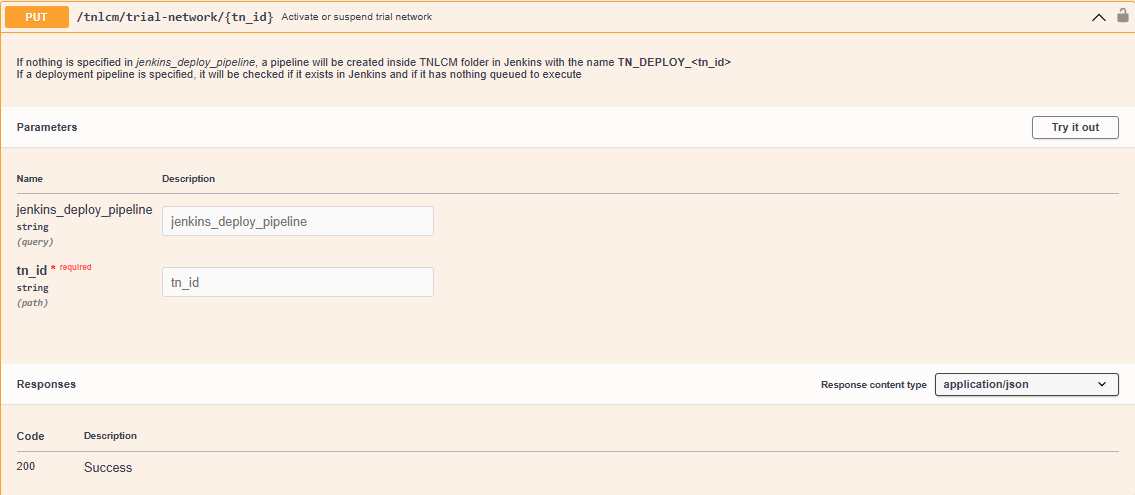
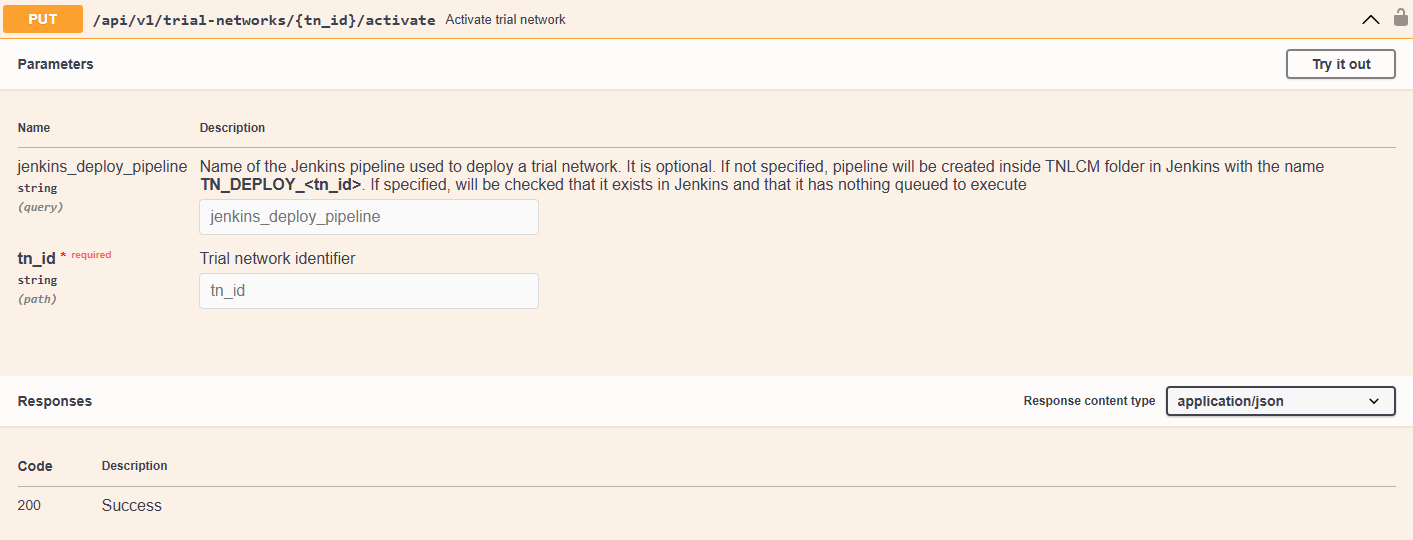
fix: state machine (#11)
* fix: state machine

* fix: api endpoints

* change: state machine documentation

* fix: link

* fix: image

* change: state machine

* change: update lucide library to latest version

* change: update bun version

* add: marketplace icon to redirect to marketplace

* fix: reference

* change: state machine

* change: update images

* add: resource manager

* fix: state machine

* fix: doc

* change: update dependencies to latest version

diff --git a/docusaurus.config.js b/docusaurus.config.js
@@ -121,6 +121,21 @@ const config = {
             className: 'header-github-link',
             'aria-label': 'GitHub repository'
           },
+          {
+            href: 'https://marketplace.mobilesandbox.cloud:9443/appliance',
+            position: 'right',
+            className: 'header-marketplace-link',
+            'aria-label': 'Marketplace',
+            html: `
+              <div style="display: flex; align-items: center; justify-content: center; height: 100%;">
+                <svg class="marketplace-icon" xmlns="http://www.w3.org/2000/svg" width="24" height="24" viewBox="0 0 24 24" fill="none" stroke="currentColor" stroke-width="2" stroke-linecap="round" stroke-linejoin="round">
+                  <circle cx="8" cy="21" r="1"/>
+                  <circle cx="19" cy="21" r="1"/>
+                  <path d="M2.05 2.05h2l2.66 12.42a2 2 0 0 0 2 1.58h9.78a2 2 0 0 0 1.95-1.57l1.65-7.43H5.12"/>
+                </svg>
+              </div>
+            `,
+          },
         ],
         hideOnScroll: true,
       },
@@ -187,7 +202,6 @@ const config = {
         backgroundColor: '#fffae6',
         textColor: '#091E42',
         isCloseable: true,
-
       },
     }),
 };

diff --git a/src/css/custom.css b/src/css/custom.css
@@ -43,3 +43,7 @@
 .header-github-link:hover:before {
   background-color: var(--ifm-navbar-link-hover-color)
 }
+
+.marketplace-icon {
+  stroke: var(--ifm-font-color-base);
+}

diff --git a/docs/tnlcm/workflow.md b/docs/tnlcm/workflow.md
@@ -15,24 +15,35 @@ TNLCM is a **state machine** that allows the automation of component deployment.
 
 ### States
 
-- **Validated**: trial network descriptor created is checked to see if it can be deployed. 6G-Library is used to validate it
-- **Activated**: trial network has been deployed in OpenNebula
-- **Suspended**: trial network has been suspended. It remains deployed, but turned off
-- **Failed**: there was an error during the trial network deployment
-- **Destroyed**: trial network deployment in OpenNebula is removed, but its content is kept in the database and locally
-- **Purge**: the trial network and the callbacks are removed from the database as well as its local content
+- **activated**: the trial network is deployed in OpenNebula and ready to use.
+- **created**: the trial network descriptor is created but not yet validated.
+- **destroyed**: the trial network deployment is removed from OpenNebula and ready for deploy again.
+- **failed-activation**: the trial network deployment failed. It is waiting for the user to try again.
+- **failed-destruction**: the trial network deployment removal failed. It is waiting for the user to try again.
+- **purged**: all the information about the trial network is removed from the database.
+- **validated**: the trial network descriptor is created and validated. It is ready to be deployed in OpenNebula.
+<!-- - **failed-suspension**: the trial network suspension failed. It is waiting for the user to try again. -->
+<!-- - **suspended**: the trial network is not in use but it is still deployed in OpenNebula. -->
 
 ### Transitions
 
-- Initial state &rarr; Validated: trial network descriptor validated and ready for deploy
-- Validated &rarr; Activated: trial network deployed and ready for use
-- Validated &rarr; Failed: trial network deployment failed
-- Validated &rarr; Purge: trial network invalid
-- Failed &rarr; Failed: again, trial network deployment failed
-- Activated &rarr; Destroyed: trial network destroyed and ready for deploy again
-- Activated &rarr; Suspended: TODO
-- Suspended &rarr; Activated: TODO
-- Destroyed &rarr; Activated: trial network deployed and ready for use 
-- Destroyed &rarr; Purge: trial network removed
+- **initial-state** &rarr; **created**: create a trial network descriptor that not validated yet. It allows save the descriptor for further editing at a later time.
+- **initial-state** &rarr; **validated**: create and validate a trial network descriptor in the same step. It check if the descriptor can be deployed.
+- **created** &rarr; **created**: edit the trial network descriptor.
+- **created** &rarr; **validated**: apply validation to the trial network descriptor.
+- **created** &rarr; **purged**: remove all the information about the trial network in database.
+- **validated** &rarr; **purged**: remove all the information about the trial network in database.
+- **validated** &rarr; **activated**: activate the trial network. It deploys the trial network in OpenNebula.
+- **validated** &rarr; **failed-activation**: trial network deployment failed. It is waiting for the user to try again.
+- **failed-activation** &rarr; **failed-activation**: retry the trial network deployment and it fails again.
+- **failed-activation** &rarr; **activated**: retry the trial network deployment and it is successful.
+- **failed-activation** &rarr; **destroyed**: remove the trial network deployment from OpenNebula and ready for deploy again.
+- **activated** &rarr; **destroyed**: remove the trial network deployment from OpenNebula and ready for deploy again.
+- **activated** &rarr; **failed-destroyed**: trial network deployment removal failed. It is waiting for the user to try again.
+- **destroyed** &rarr; **purged**: remove all the information about the trial network in database.
+- **destroyed** &rarr; **failed-activation**: retry the trial network deployment and it fails.
+- **destroyed** &rarr; **activated**: retry the trial network deployment and it is successful.
+- **failed-destruction** &rarr; **destroyed**: retry the trial network deployment removal and it is successful.
+- **failed-destruction** &rarr; **failed-destruction**: retry the trial network deployment removal and it fails again.
 
 ![stateMachine](./images/stateMachine.png)

diff --git a/docs/tnlcm/home.md b/docs/tnlcm/home.md
@@ -15,20 +15,18 @@ TNLCM/                       // main directory.
 ├─ conf/                     // directory that handler the configuration files.
 ├─ core/                     // directory that the developed code is stored.
 │  ├─ auth/                  // directory that handler the authentication of users who have access.
-│  ├─ callback/              // directory that handler the callback received by Jenkins.
-│  ├─ cli/                   // directory that handler the cli for run commands.
 │  ├─ database/              // directory that handler the connection with MongoDB database using mongoengine.
 │  ├─ exceptions/            // directory that handler the creation of custom exceptions.
 │  ├─ jenkins/               // directory that handler the connection with Jenkins for tn deployment.
+│  ├─ library/               // directory that handler the connection to the Library repository.
 │  ├─ logs/                  // directory that handler the logs configuration.
-│  ├─ mail/                  // directory that handler the configuration to use flask mail library.
 │  ├─ models/                // directory that contains the database models.
 │  ├─ repository/            // directory that handler the connection to any repository.
 │  ├─ routes/                // directory that handler the API that is exposed.
-│  ├─ library/               // directory that handler the connection to the Library repository.
 │  ├─ sites/                 // directory that handler the connection to the Sites repository.
 │  └─ utils/                 // directory that handler data conversions and storage in YAML, Markdown and JSON formats.
 ├─ docs/                     // directory where documentation is stored.
+├─ hoppscotch/               // directory that contains the Hoppscotch collection for testing the API.
 ├─ scripts/                  // directory contains scripts for automated deployments.
 ├─ tn_template_lib/          // directory that trial network descriptors templates are stored.
 ├─ .env.template             // file that contains placeholder environment variables for configuring the application.
@@ -36,5 +34,6 @@ TNLCM/                       // main directory.
 ├─ app.py                    // main file that starts TNLCM.
 ├─ CHANGELOG.md              // file containing the changes made in each release.
 ├─ pyproyect.toml            // file containing the libraries and their versions.
+├─ ruff.toml                 // file containing the configuration for Ruff.
 └─ uv.lock
 ```

diff --git a/docs/tnlcm/swagger-ui.md b/docs/tnlcm/swagger-ui.md
@@ -21,7 +21,7 @@ Once the user has been created or if it has been previously created, add the use
 
 Once the user has been added, an access token and its refresh token can be generated. This access token has a duration of one day (can be modified):
 
-![obtainTokens](./images/obtainTokens.png)
+![login](./images/login.png)
 
 The next step is to add the token in the green **Authorize** box. It is required to put the word **Bearer**, a space and then the token. An example is shown:
 
@@ -44,10 +44,12 @@ Once logged into TNLCM, execute the POST request of the `trial-network` namespac
 Fill in the following fields:
 
 - `tn_id`: must start with a character and be at least 4 characters long. This field can be left blank, in which case a random value will be generated.
+- `descriptor`: descriptor file containing the definition of the trial network. To create a descriptor file, refer to the [Trial Network Descriptor Schema](./descriptor-schema.md) section.
 - `library_reference_type`: you can specify a branch, tag, or commit of the 6G-Library repository.
 - `library_reference_value`: value corresponding to the type specified in the `library_reference_type` field.
-- `deployment_site`: must be one of the branches available in the [6G-Sandbox-Sites](https://github.com/6G-SANDBOX/6G-Sandbox-Sites) repository.
-- `descriptor`: descriptor file containing the definition of the trial network. To create a descriptor file, refer to the [Trial Network Descriptor Schema](./descriptor-schema.md) section.
+- `sites_branch`: must be one of the branches available in the [6G-Sandbox-Sites](https://github.com/6G-SANDBOX/6G-Sandbox-Sites) repository.
+- `deployment_site`: must be one directory of the `sites_branch` specified.
+- `validate`: if true, the descriptor file will be validated and required all the parameters to be filled in. If false, the descriptor file will not be validated and some parameters can be left blank.
 
 ## Deploy trial network
 

diff --git a/docs/tnlcm/database-schema.md b/docs/tnlcm/database-schema.md
@@ -5,7 +5,7 @@ sidebar_label: "Database Schema"
 draft: false
 ---
 
-TNLCM database, created with MongoDB, consists of several collections that store important information about `resource manager`, `trial network`, `user` and `verification token`. Below is a description of each collection, along with a graphical representation using SQL syntax created with [dbdiagram.io](https://dbdiagram.io/).
+TNLCM database, created with MongoDB, consists of several collections that store important information about `trial network`, `resource_manager` and `user`. Below is a description of each collection, along with a graphical representation using SQL syntax created with [dbdiagram.io](https://dbdiagram.io/).
 
 ## Collections
 
@@ -51,19 +51,10 @@ TNLCM database, created with MongoDB, consists of several collections that store
 | `role`     | string | User's role                   |
 | `org`      | string | User's organization           |
 
-### Collection `verification_token`
-
-| Field                | Type   | Description                             |
-| -------------------- | ------ | --------------------------------------- |
-| `new_account_email`  | string | Email for the new account (primary key) |
-| `verification_token` | string | Verification token for the account      |
-| `creation_date`      | date   | Creation date of the verification token |
-
 ## Relationships
 
 - `resource_manager.tn_id > trial_network.tn_id` // resource_manager references trial_network
 - `trial_network.user_created > user.username` // A user can have multiple trial_networks (one-to-many)
-- `verification_token.new_account_email - user.email` // One-to-one relationship between verification_token and user
 
 ## Model
 

diff --git a/docs/tnlcm/installation.md b/docs/tnlcm/installation.md
@@ -14,7 +14,7 @@ TNLCM requires the **prior** installation of:
 - **Jenkins**: [v2.492.1](https://github.com/jenkinsci/jenkins/releases/tag/jenkins-2.492.1)
 
 :::tip
-You can install the full stack MinIO, Jenkins and TNLCM in OpenNebula by following the toolkit installer guide [here](../toolkit-installer/run-toolkit-installer.md).
+You can install the full stack MinIO, Jenkins and TNLCM in OpenNebula by following the toolkit installer guide [here](../toolkit-installer/installation.md).
 :::
 
 ## Download installation script
@@ -24,13 +24,13 @@ Download the installation script using one of the following command.
 - Using `curl`:
 
 ```bash
-curl -O https://raw.githubusercontent.com/6G-SANDBOX/TNLCM/main/scripts/install.sh
+curl -O https://raw.githubusercontent.com/6G-SANDBOX/TNLCM/v0.4.5/scripts/install.sh
 ```
 
 - Using `wget`:
 
 ```bash
-wget https://raw.githubusercontent.com/6G-SANDBOX/TNLCM/main/scripts/install.sh
+wget https://raw.githubusercontent.com/6G-SANDBOX/TNLCM/v0.4.5/scripts/install.sh
 ```
 
 ## Execute installation script

diff --git a/versioned_docs/version-0.4.0/tnlcm/installation.md b/versioned_docs/version-0.4.0/tnlcm/installation.md
@@ -14,7 +14,7 @@ TNLCM requires the **prior** installation of:
 - **Jenkins**: [v2.492.1](https://github.com/jenkinsci/jenkins/releases/tag/jenkins-2.492.1)
 
 :::tip
-You can install the full stack MinIO, Jenkins and TNLCM in OpenNebula by following the toolkit installer guide [here](../toolkit-installer/run-toolkit-installer.md).
+You can install the full stack MinIO, Jenkins and TNLCM in OpenNebula by following the toolkit installer guide [here](../toolkit-installer/installation.md).
 :::
 
 ## Download installation script

diff --git a/docs/tnlcm/upgrade.md b/docs/tnlcm/upgrade.md
@@ -26,13 +26,13 @@ Download the upgrade script using one of the following command.
 - Using `curl`:
 
 ```bash
-curl -O https://raw.githubusercontent.com/6G-SANDBOX/TNLCM/main/scripts/upgrade.sh
+curl -O https://raw.githubusercontent.com/6G-SANDBOX/TNLCM/v0.4.5/scripts/upgrade.sh
 ```
 
 - Using `wget`:
 
 ```bash
-wget https://raw.githubusercontent.com/6G-SANDBOX/TNLCM/main/scripts/upgrade.sh
+wget https://raw.githubusercontent.com/6G-SANDBOX/TNLCM/v0.4.5/scripts/upgrade.sh
 ```
 
 ## Execute upgrade script
